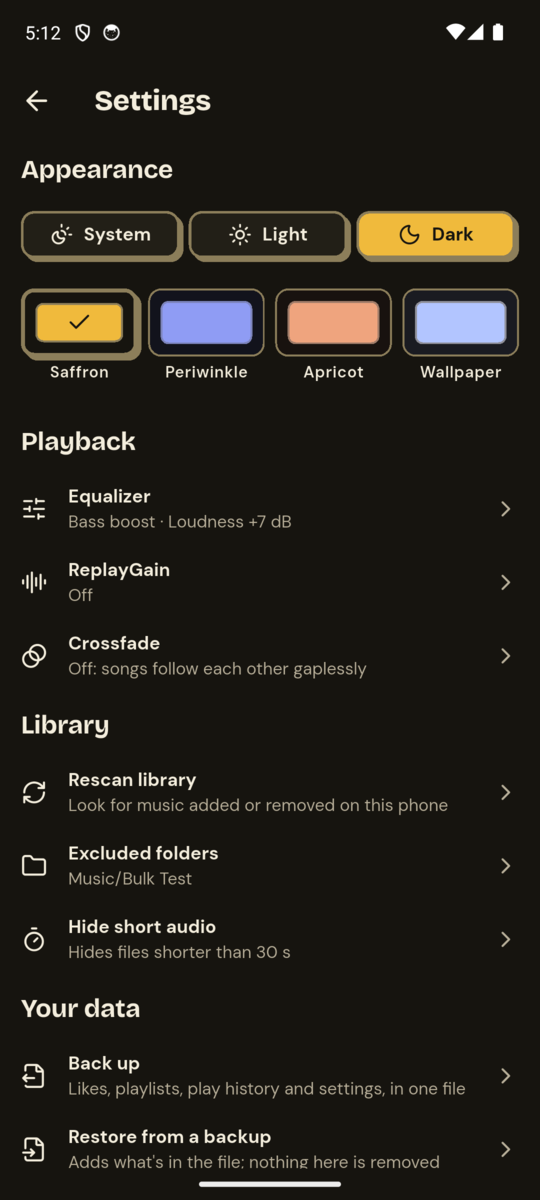
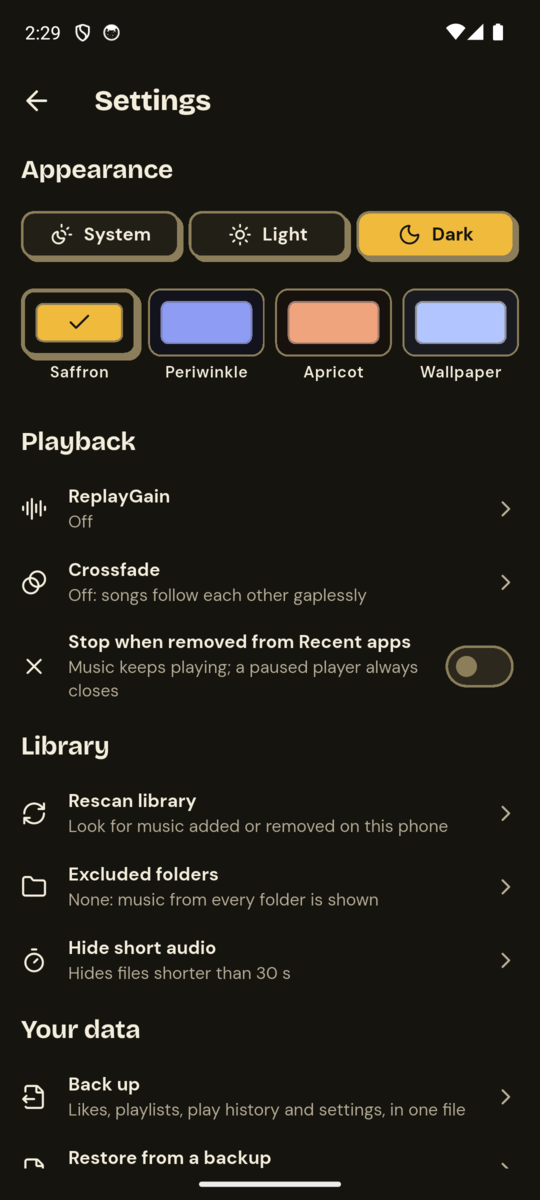
README: 0.1.1 status and Settings screenshot without the equalizer

diff --git a/README.md b/README.md
@@ -7,7 +7,7 @@ no internet permission at all: nothing leaves your device.
 Built with Flutter, with a bold neo-brutalist look (thick outlines, hard
 shadows, a saffron accent) in light and dark.
 
-> **Status:** early release (0.1.0). Found a bug or missing something? Please
+> **Status:** early release (0.1.1). Found a bug or missing something? Please
 > open an [issue](https://github.com/MapIHS/HaraPlay/issues).
 
 <p>
